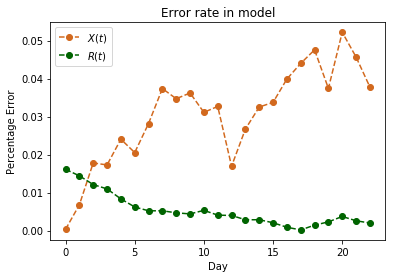
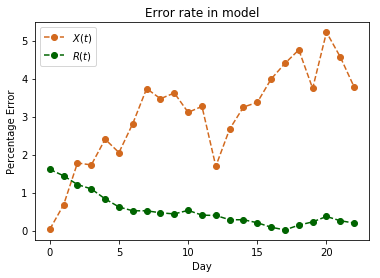
Updated model error rate graph
Updated model error rate graph

diff --git a/Models/TSIR_SIRV_AllStates.py b/Models/TSIR_SIRV_AllStates.py
@@ -224,10 +224,10 @@ for m in range(len(reg)):
     error_R0 = []
 
     for i in range(len(X1)):
-        error_X.append(abs(X1[i] - X_testpred[i]) / X1[i])
+        error_X.append(abs(X1[i] - X_testpred[i]) * 100 / X1[i])
 
     for i in range(len(R1)):
-        error_R.append(abs(R1[i] - R_testpred[i]) / R1[i])
+        error_R.append(abs(R1[i] - R_testpred[i]) * 100 / R1[i])
 
     for i in range(len(beta)):
         if gamma[i] == 0:
@@ -239,7 +239,7 @@ for m in range(len(reg)):
         predicted_R0.append(beta_hat[i] / gamma_hat[i])
 
     for i in range(len(predicted_R0)):
-        error_R0.append(abs(R0[orders_beta + i] - predicted_R0[i]) / R0[orders_beta + i])
+        error_R0.append(abs(R0[orders_beta + i] - predicted_R0[i]) *100 / R0[orders_beta + i])
 
     plt.figure(5)
     plt.plot(t, error_X, 'o--', label=r'$X(t)$', color='chocolate')
